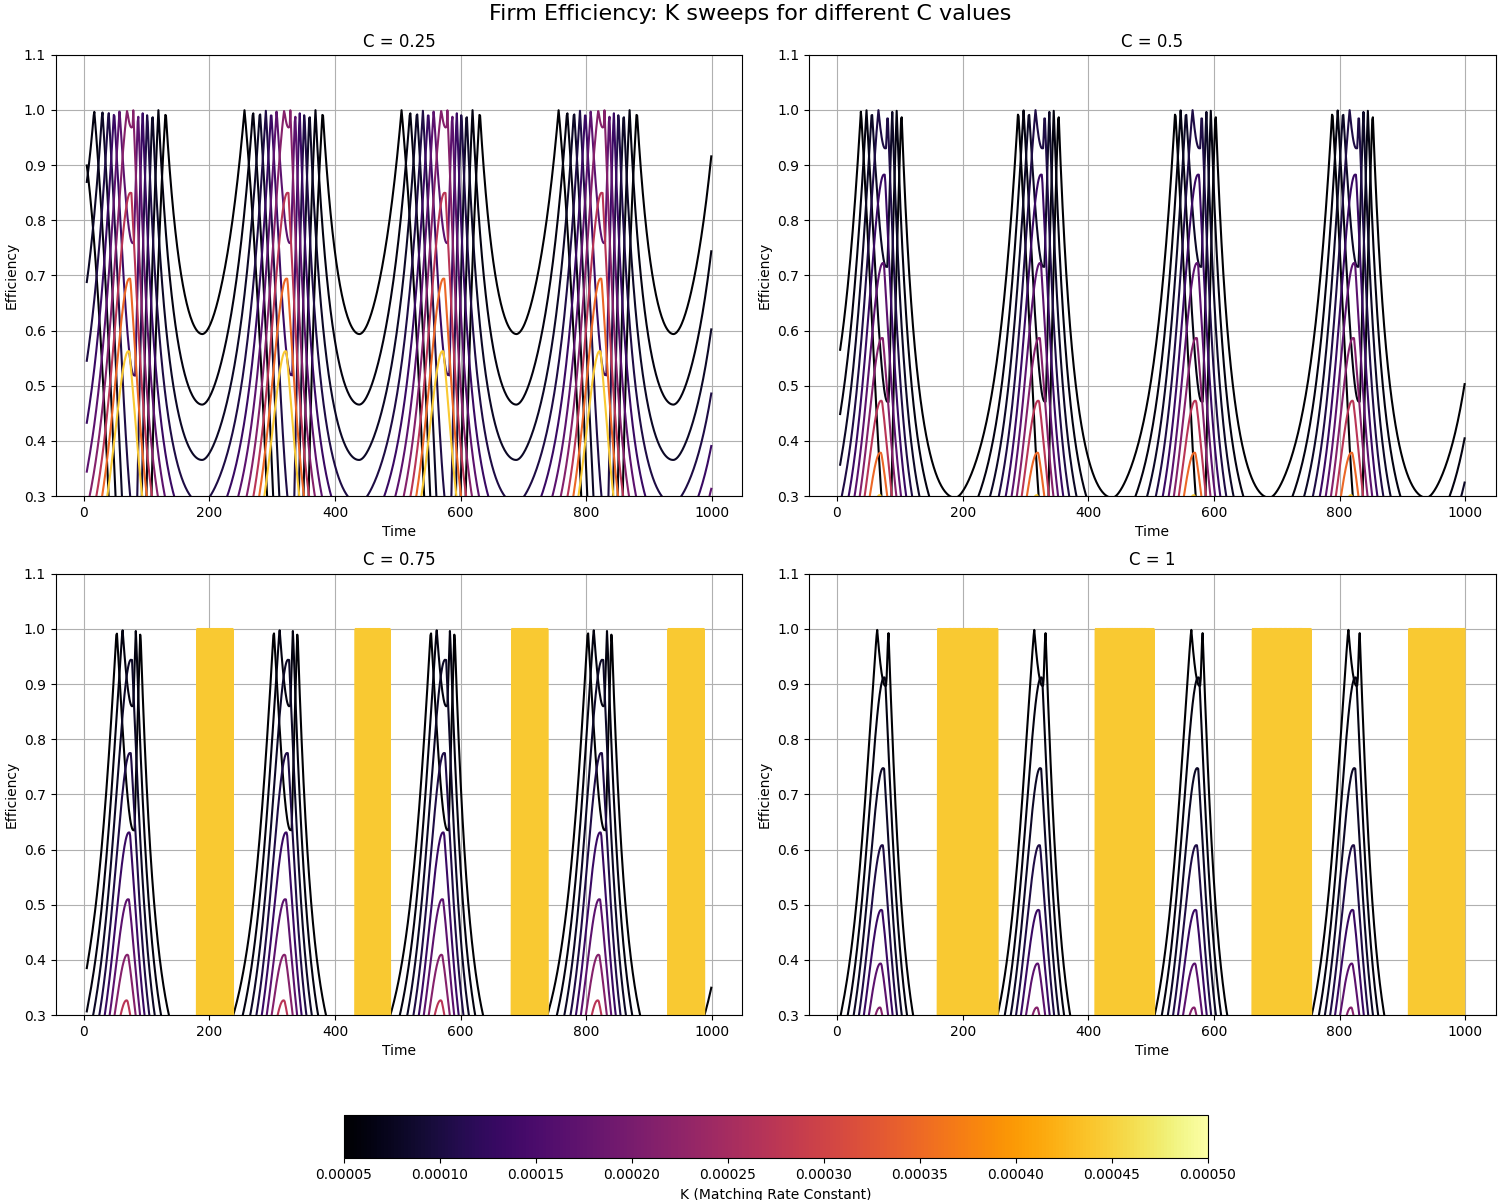
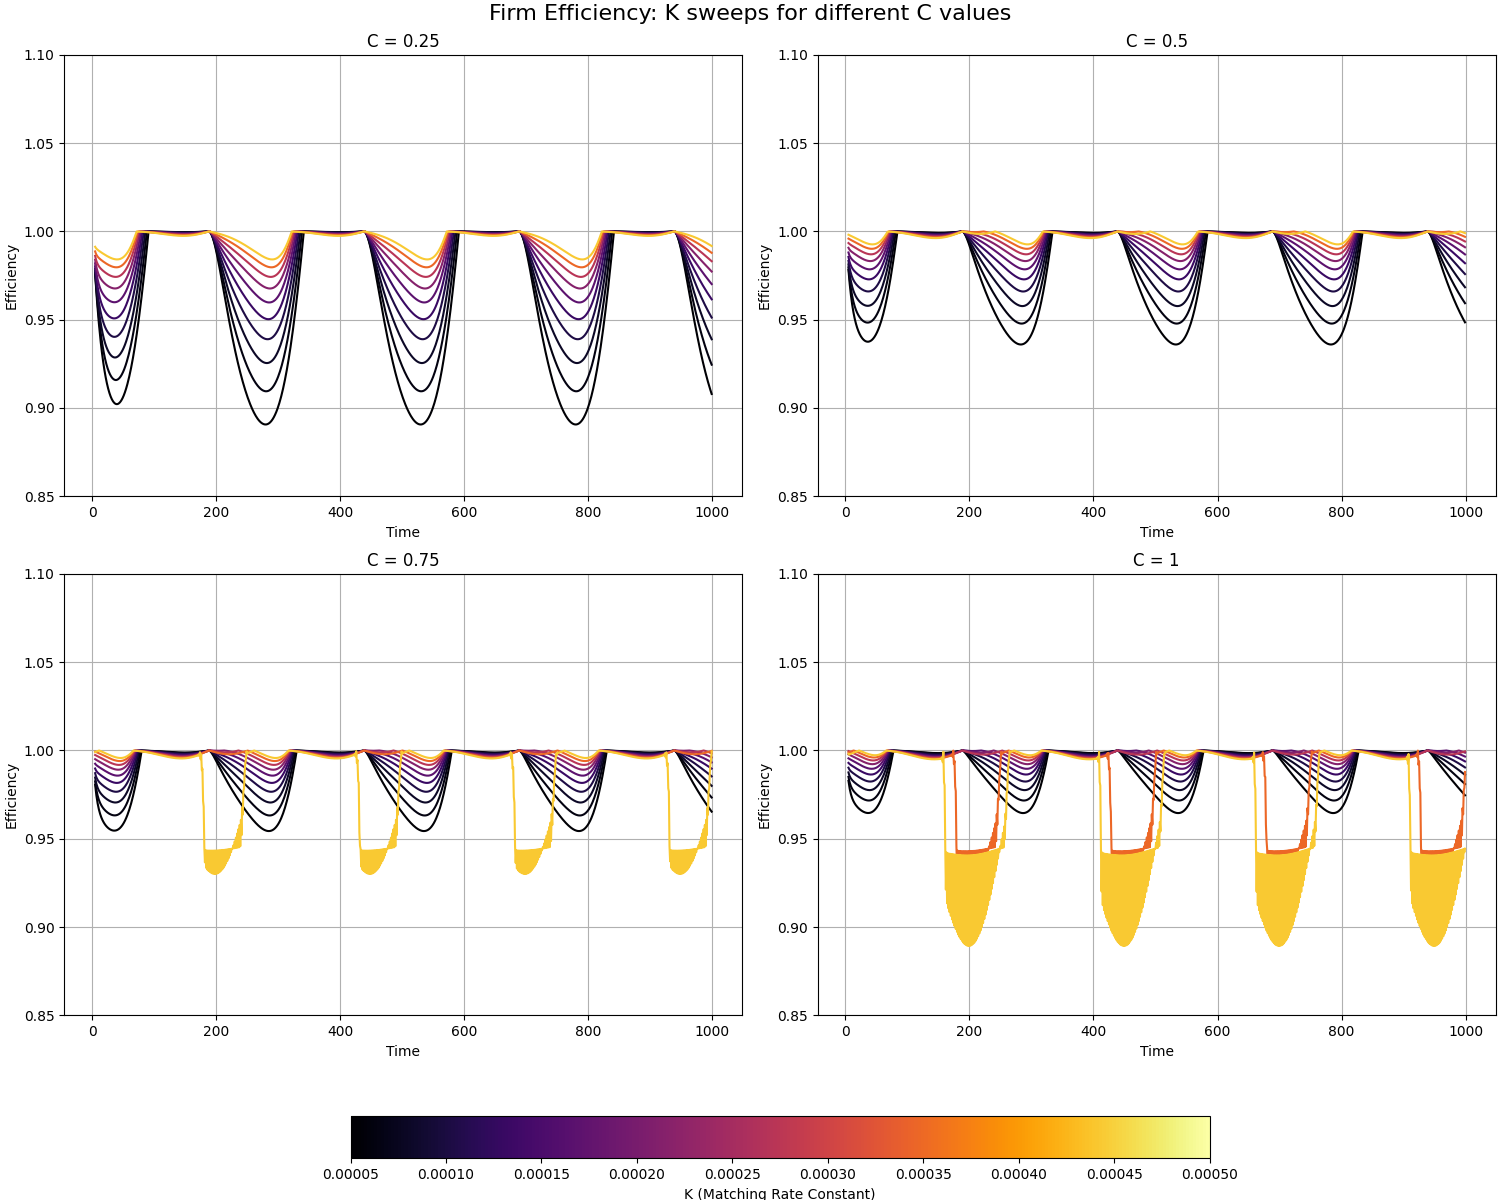
updates

diff --git a/beveridge.py b/beveridge.py
@@ -40,18 +40,6 @@ class Firm:
         plt.savefig("demand.png")
         plt.close()
 
-    def plot_employment(self, unemployment):
-        plt.plot(self.time,(self.employment),label = "employment")
-        plt.plot(self.time,(unemployment),label = "unemployment")
-        plt.plot(self.time,(self.vacancies),label = "vacancies")
-        plt.xlabel("Time")
-        plt.ylabel("Log Value")
-        plt.title("Sensit. Coeff. = " + str(self.sensitivity_coefficient)+" Firm Size = " + str(self.firm_size)+" Matching Rt = " + str(self.matching_rate_constant))
-        plt.legend()
-        # plt.ylim(top = np.log(POPULATION),bottom = 0)
-        plt.savefig("employment.png")
-        plt.close()
-
     def update_vacancies(self,t,unemployment):
         self.matching_function[t] = self.matching_rate_constant*unemployment
         # print(" VACANCY UPDATE")
@@ -92,7 +80,7 @@ class Firm:
         # print("New Employment:    ", self.employment[t+1])
 
         # Calculate efficiency for the current step
-        target = self.vacancies[t]
+        target = self.employment_demand[t]
         actual = self.employment[t+1]
 
         if target <= 0:
@@ -125,25 +113,9 @@ class Firm:
         self.matching_rate_constant = matching_rate_constant
         # self.matching_rate_constant = (POPULATION/500)*(1-SURPLUS_XI)*SEPARATION_RATE
         self.target = self.set_target()
-
-        #Initialize matching function
         
-
-        self.employment_rate=[]
-        
-
-
     def set_time(self, time):
         self.time = time
-
-    def plot_handler(self, plot_list, unemployment):
-
-        for plot in plot_list:
-            if plot == "demand":
-                self.plot_demand()
-
-            if plot == "employment":
-                self.plot_employment(unemployment)
 
 def compute_loop_area(x, y):
     """
@@ -171,7 +143,7 @@ def run_market(firms, population, init_unemployment):
 
     return unemployment,firms
         
-def compute_rates(firms, population=None, plot=True):
+def compute_rates(firms, economy_name, population=None, plot=True):
     vacancies = [np.sum([firm.vacancies[t] for firm in firms]) for t in TIME]
     employment = [np.sum([firm.employment[t] for firm in firms]) for t in TIME]
 
@@ -185,13 +157,53 @@ def compute_rates(firms, population=None, plot=True):
         plt.plot(vacancy_rate,unemployment_rate,label = "signal")
         plt.xlabel("vacancy rate")
         plt.ylabel("unemployment rate")
+        plt.axhline(y=SURPLUS_XI, color='red', linestyle='--')
         plt.legend()
-        plt.savefig("beveridge.png")
+        plt.savefig("beveridge"+economy_name+".png")
         plt.close()
 
     return vacancy_rate,unemployment_rate
 
-def initialize_economy(demand_signal, firm_weights_k, base_sigma, surplus_xi, productivity_density, sensitivity_coefficient):
+
+def plot_multi_employment(firms, unemployment, time, population, economy_name):
+    """
+    Plots the employment of multiple individual firms and the aggregate unemployment.
+    """
+    plt.figure(figsize=(10, 6))
+    
+    # Plot employment for each firm
+    colors = cm.get_cmap('tab10', len(firms))
+    for i, firm in enumerate(firms):
+        plt.plot(time, firm.employment, label=f"Employment Firm {i+1} (C={firm.sensitivity_coefficient})", color=colors(i), linestyle='-')
+        plt.plot(time, firm.vacancies, label=f"Vacancies Firm {i+1}", color=colors(i), linestyle='--')
+
+    # Plot aggregate unemployment
+    plt.plot(time, unemployment, label="Aggregate Unemployment", color='black', linestyle=':')
+
+    # --- Population Conservation Check ---
+    # Plot theoretical constant population
+    plt.axhline(y=population, color='gray', linestyle='--', label='Total Population (Theoretical)')
+
+    # Calculate and plot the actual total people in the system
+    total_employment = np.sum([np.array(f.employment) for f in firms], axis=0)
+    total_people_actual = total_employment + np.array(unemployment)
+    plt.plot(time, total_people_actual, color='blue', linestyle='-.', label='Total Population (Actual)')
+
+    # Add theoretical minimum unemployment line
+    plt.axhline(y=SURPLUS_XI * population, color='red', linestyle='--', label=f'$\\xi L$ = {SURPLUS_XI*population:.0f}')
+
+
+    plt.xlabel("Time")
+    plt.ylabel("Number of People")
+    plt.title(f"Employment Dynamics ({economy_name})")
+    plt.legend()
+    plt.grid(True)
+    plt.savefig(f"employment_{economy_name}.png")
+    plt.close()
+    print(f"Saved multi-firm employment plot to employment_{economy_name}.png")
+
+
+def initialize_economy(demand_signal, firm_weights_k, base_sigma, surplus_xi, productivity_density, sensitivity_coefficients):
     """
     Initializes the economy's structural parameters using a non-circular method.
 
@@ -204,7 +216,7 @@ def initialize_economy(demand_signal, firm_weights_k, base_sigma, surplus_xi, pr
         base_sigma (float): The base firm size (sigma), an anchor for the economy's scale.
         surplus_xi (float): The desired labor surplus fraction (e.g., 0.05 for 5%).
         productivity_density (float): The productivity per worker (pi).
-        sensitivity_coefficient (float): The firm sensitivity to the economic signal (C).
+        sensitivity_coefficients (list or np.array): The firm sensitivities to the economic signal (C_i).
                                        (Assumed to be the same for all firms for now).
 
     Returns:
@@ -215,6 +227,7 @@ def initialize_economy(demand_signal, firm_weights_k, base_sigma, surplus_xi, pr
     """
     num_firms_N = len(firm_weights_k)
     k = np.asarray(firm_weights_k)
+    C = np.asarray(sensitivity_coefficients)
 
     # --- Step 1: Calculate firm sizes (sigma_i) from the base sigma ---
     sigmas = k * base_sigma
@@ -224,8 +237,8 @@ def initialize_economy(demand_signal, firm_weights_k, base_sigma, surplus_xi, pr
     g_max = demand_signal.max()
 
     # Calculate the target employment for each firm at the peak signal
-    # target_employment_i = sigma_i * (1 + C * g_max)
-    peak_target_employment_per_firm = sigmas * (1 + sensitivity_coefficient * g_max)
+    # target_employment_i = sigma_i * (1 + C_i * g_max)
+    peak_target_employment_per_firm = sigmas * (1 + C * g_max)
     total_peak_target_employment = np.sum(peak_target_employment_per_firm)
 
     # --- Step 3: Calculate the total labor force L ---
@@ -264,7 +277,7 @@ def run_k_sweep_for_c(c_value):
         firm.set_time(TIME)
 
         unemployment, firms = run_market([firm], current_population, init_unemployment)
-        vacancy_rate, unemployment_rate = compute_rates(firms, current_population, plot=False)
+        vacancy_rate, unemployment_rate = compute_rates(firms, "single", current_population, plot=False)
 
         loop_vacancies = vacancy_rate[400:800]
         loop_unemployment = unemployment_rate[400:800]
@@ -334,7 +347,7 @@ def run_nested_sweep_k_major():
         ax.set_ylabel("Efficiency")
         ax.set_xlabel("Time")
         ax.grid(True)
-        ax.set_ylim(.3, 1.1)
+        ax.set_ylim(.85, 1.1)
 
     sm = plt.cm.ScalarMappable(cmap=cmap, norm=norm)
     sm.set_array([])
@@ -381,17 +394,146 @@ def run_single_timeseries():
     unemployment, firms = run_market([firm], population, init_unemployment)
 
     # Generate and save the plots
-    firms[0].plot_handler(["demand", "employment"], unemployment)
-    compute_rates(firms, population, plot=True)
+    plot_multi_employment(firms, unemployment, TIME, population, "single_firm")
+    vacancy_rate, unemployment_rate = compute_rates(firms, "single", population, plot=True)
     
     print("\nGenerated single-run plots:")
     print("- demand.png")
     print("- employment.png")
     print("- beveridge.png")
 
+    return vacancy_rate, unemployment_rate
+
+def run_double_timeseries():
+    """
+    Runs a simulation with two firms competing in the same labor market.
+    """
+    print("Running dual-firm simulation...")
+
+    # --- Define parameters for two distinct firms ---
+    # Firm 1: Larger, less sensitive to market changes
+    # Firm 2: Smaller, more sensitive (volatile)
+    firm_weights_k = [0.7, 0.3] # Firm 1 is 70% of base size, Firm 2 is 30%
+    sensitivity_coefficients = [0.25, 0.75] # C values for each firm
+
+    # --- Initialize economy using constraints for the two-firm system ---
+    base_sigma = BASE_SIGMA[0]
+    sigmas, population, num_firms = initialize_economy(
+        GDP['gdp_sine'], 
+        firm_weights_k, 
+        base_sigma, 
+        SURPLUS_XI, 
+        PRODUCTIVITY_DENSITY[0], 
+        sensitivity_coefficients
+    )
+    
+    # --- Calculate initial state based on t=0 demand for both firms ---
+    initial_signal = GDP['gdp_sine'].iloc[0] if 'gdp_sine' in GDP.columns else 0
+    init_employment_firm1 = sigmas[0] * (1 + sensitivity_coefficients[0] * initial_signal)
+    init_employment_firm2 = sigmas[1] * (1 + sensitivity_coefficients[1] * initial_signal)
+    init_unemployment = population - (init_employment_firm1 + init_employment_firm2)
+
+    # --- Create Firm instances ---
+    firm1 = Firm(GDP['gdp_sine'], sigmas[0], PRODUCTIVITY_DENSITY[0], init_employment_firm1, 0, MATCHING_RATE_CONSTANT[0], sensitivity_coefficients[0])
+    firm2 = Firm(GDP['gdp_sine'], sigmas[1], PRODUCTIVITY_DENSITY[0], init_employment_firm2, 0, MATCHING_RATE_CONSTANT[0], sensitivity_coefficients[1])
+    
+    firm1.set_time(TIME)
+    firm2.set_time(TIME)
+    
+    # --- Run the market simulation ---
+    firms = [firm1, firm2]
+    unemployment, firms = run_market(firms, population, init_unemployment)
+
+    # --- Generate and save the plots ---
+    # Aggregate Beveridge Curve
+    vacancy_rate, unemployment_rate = compute_rates(firms, "double", population, plot=True) 
+    # Individual employment dynamics
+    plot_multi_employment(firms, unemployment, TIME, population, "two_firm")
+
+    return vacancy_rate, unemployment_rate
+
+def run_four_firm_timeseries():
+    """
+    Runs a simulation with four equal-sized firms competing in the same labor market.
+    """
+    print("Running four-firm simulation...")
+
+    # --- Define parameters for four distinct firms ---
+    # All firms are equal size (k=0.25)
+    # Two are stable (low C), two are volatile (high C)
+    firm_weights_k = [0.25, 0.25, 0.25, 0.25]
+    sensitivity_coefficients = [0.25, 0.25, 0.75, 0.75] 
+
+    # --- Initialize economy ---
+    base_sigma = BASE_SIGMA[0]
+    sigmas, population, num_firms = initialize_economy(
+        GDP['gdp_sine'], firm_weights_k, base_sigma, SURPLUS_XI, 
+        PRODUCTIVITY_DENSITY[0], sensitivity_coefficients
+    )
+    
+    # --- Calculate initial state for all firms ---
+    initial_signal = GDP['gdp_sine'].iloc[0] if 'gdp_sine' in GDP.columns else 0
+    
+    firms = []
+    total_initial_employment = 0
+    for i in range(num_firms):
+        init_emp = sigmas[i] * (1 + sensitivity_coefficients[i] * initial_signal)
+        total_initial_employment += init_emp
+        firm = Firm(GDP['gdp_sine'], sigmas[i], PRODUCTIVITY_DENSITY[0], init_emp, 0, MATCHING_RATE_CONSTANT[0], sensitivity_coefficients[i])
+        firm.set_time(TIME)
+        firms.append(firm)
+
+    init_unemployment = population - total_initial_employment
+    
+    # --- Run the market simulation ---
+    unemployment, firms = run_market(firms, population, init_unemployment)
+
+    # --- Generate and save the plots ---
+    vacancy_rate, unemployment_rate = compute_rates(firms, "four_firm", population, plot=True) 
+    plot_multi_employment(firms, unemployment, TIME, population, "four_firm")
+
+    return vacancy_rate, unemployment_rate
+
+
+def plot_beveridge_comparison(curves_data):
+    """
+    Plots multiple Beveridge curves on the same axes for comparison.
+
+    Args:
+        curves_data (dict): A dictionary where keys are labels for the curves
+                            and values are tuples of (vacancy_rate, unemployment_rate).
+    """
+    plt.figure(figsize=(8, 6))
+    
+    for label, (vr, ur) in curves_data.items():
+        plt.plot(ur,vr, label=label)
+
+    plt.xlabel("Vacancy Rate")
+    plt.ylabel("Unemployment Rate")
+    plt.title("Beveridge Curve Comparison")
+    plt.axvline(x=SURPLUS_XI, color='red', linestyle='--', label=f'Min Unemployment Rate ($\\xi={SURPLUS_XI}$)')
+    plt.legend()
+    plt.grid(True)
+    plt.savefig("beveridge_comparison.png")
+    plt.close()
+    print("Saved Beveridge curve comparison plot to beveridge_comparison.png")
+
+
 def main():
-    run_single_timeseries()
-    run_nested_sweep_k_major()
+    # Run simulations and get the curve data
+    vr_single, ur_single = run_single_timeseries()
+    vr_double, ur_double = run_double_timeseries()
+    vr_four, ur_four = run_four_firm_timeseries()
+
+    # Plot the comparison
+    comparison_data = {
+        "Single Firm": (vr_single, ur_single),
+        "Two Firms (Aggregate)": (vr_double, ur_double),
+        "Four Firms (Aggregate)": (vr_four, ur_four)
+    }
+    plot_beveridge_comparison(comparison_data)
+
+    # run_nested_sweep_k_major()
 
 if __name__ == "__main__":
     main()

diff --git a/special_signals.py b/special_signals.py
@@ -44,7 +44,7 @@ T_STEP_NEG = 1.0 / 3.0
 # Sine wave parameters: baseline + amp * sin(2π f t + phase)
 SINE_BASELINE = 106.0
 SINE_AMP = 30.0          # keep baseline > amp to ensure positivity in deterministic part
-SINE_FREQ = 4.0         # cycles over [0, T]
+SINE_FREQ = 16.0         # cycles over [0, T]
 SINE_PHASE = 0.0        # radians
 
 # Output
